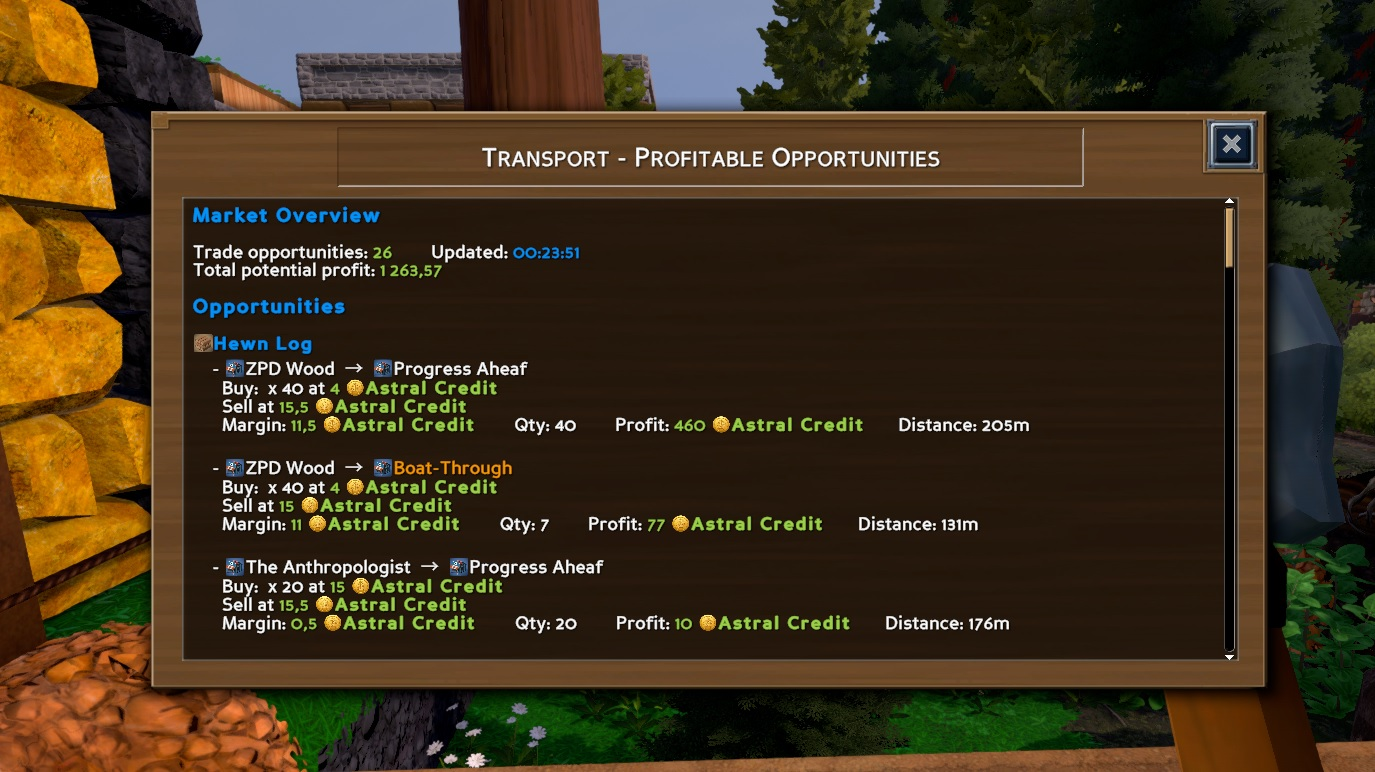
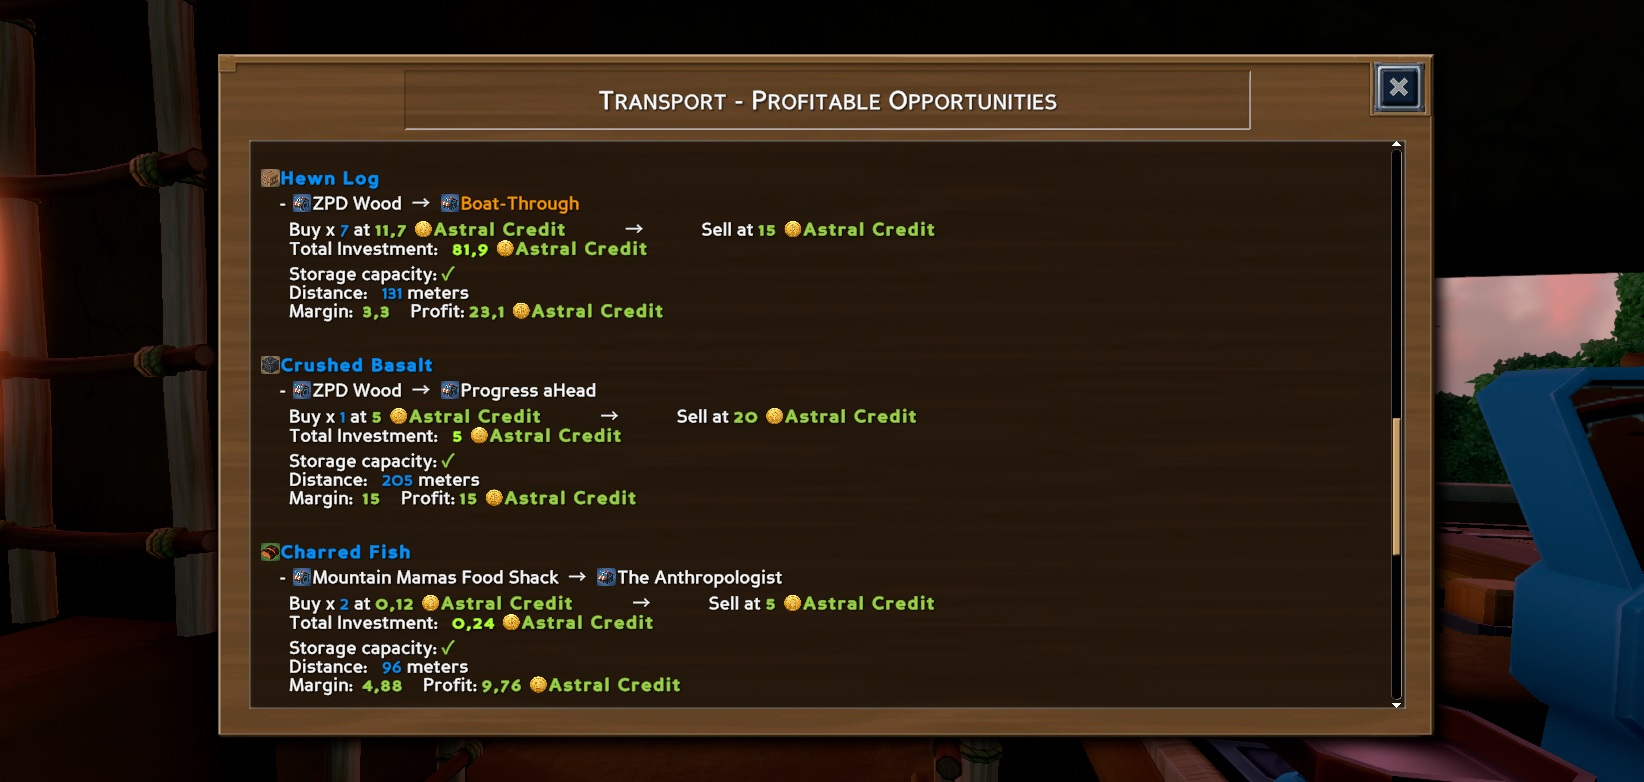
add buyers can pay and have storage capacity

diff --git a/EcoTransportMod/EcoTransportMod.cs b/EcoTransportMod/EcoTransportMod.cs
@@ -12,6 +12,7 @@ namespace Eco.Mods.EcoTransportMod
     using Eco.Core.Plugins.Interfaces;
     using Eco.Core.Utils;
     using Eco.Gameplay.Components;
+    using Eco.Gameplay.Components.Storage;
     using Eco.Gameplay.Components.Store;
     using Eco.Gameplay.Items;
     using Eco.Gameplay.Objects;
@@ -118,6 +119,7 @@ namespace Eco.Mods.EcoTransportMod
         /// - Available quantity at buy store
         /// - Wanted quantity at sell store
         /// - Sell store's available balance to pay for items
+        /// - Sell store's storage capacity
         /// </summary>
         public int MaxQuantity
         {
@@ -134,8 +136,79 @@ namespace Eco.Mods.EcoTransportMod
                     baseLimit = Math.Min(baseLimit, affordableByStore);
                 }
 
+                // Check sell store storage capacity
+                if (!CanSellToStoreAcceptItems())
+                {
+                    return 0; // Store storage is full, cannot accept any items
+                }
+
                 return Math.Max(0, baseLimit);
             }
+        }
+
+        /// <summary>
+        /// Checks if the sell-to store has storage capacity to accept items
+        /// </summary>
+        private bool CanSellToStoreAcceptItems()
+        {
+            var (isFull, _, _, _, hasStorageLimit) = GetSellToStorageInfo();
+
+            // If no storage limit detected, assume can accept
+            if (!hasStorageLimit) return true;
+
+            // Can accept if not full
+            return !isFull;
+        }
+
+        /// <summary>
+        /// Gets the storage status of the sell-to store
+        /// Returns: (isFull, availableCapacity, totalSlots, usedSlots, hasStorageLimit)
+        /// availableCapacity is the number of items that can be stored based on stack size
+        /// </summary>
+        public (bool isFull, int availableCapacity, int totalSlots, int usedSlots, bool hasStorageLimit) GetSellToStorageInfo()
+        {
+            if (SellTo?.Store == null || SellTo.ItemType == null)
+                return (false, int.MaxValue, 0, 0, false);
+
+            // Try to get LinkComponent to access linked storage
+            var linkComponent = SellTo.Store.GetComponent<LinkComponent>();
+            if (linkComponent == null)
+                return (false, int.MaxValue, 0, 0, false); // No link component
+
+            // Get linked inventories
+            var linkedInventories = linkComponent.GetSortedLinkedInventories(SellTo.Store.Owners);
+            if (linkedInventories == null)
+                return (false, int.MaxValue, 0, 0, false); // No linked inventories
+
+            // Get storage info from the linked inventories
+            int totalSlots = linkedInventories.Stacks.Count();
+            int usedSlots = linkedInventories.NonEmptyStacks.Count();
+            int availableSlots = totalSlots - usedSlots;
+            bool isFull = linkedInventories.IsFull;
+
+            // If no valid storage was found
+            if (totalSlots == 0)
+                return (false, int.MaxValue, 0, 0, false);
+
+            // Calculate available capacity based on item stack size
+            var item = Item.Get(SellTo.ItemType);
+            int maxStackSize = item?.MaxStackSize ?? 1;
+
+            // Calculate capacity considering:
+            // 1. Empty slots can hold maxStackSize items each
+            // 2. Partially filled stacks of the same item can hold more
+            int availableCapacity = availableSlots * maxStackSize;
+
+            // Check if there are existing stacks of this item that aren't full
+            foreach (var stack in linkedInventories.Stacks)
+            {
+                if (stack?.Item?.Type == SellTo.ItemType && stack.Quantity < maxStackSize)
+                {
+                    availableCapacity += (maxStackSize - stack.Quantity);
+                }
+            }
+
+            return (isFull, availableCapacity, totalSlots, usedSlots, true);
         }
 
         public float TotalCost => BuyFrom.Price * MaxQuantity;
@@ -405,20 +478,45 @@ namespace Eco.Mods.EcoTransportMod
             // Each opportunity on its own line
             foreach (var opp in opportunities.OrderByDescending(o => o.TotalProfit))
             {
-                var marginColor = opp.ProfitPercent >= 50 ? "#ADFF2F" : (opp.ProfitPercent >= 20 ? "#90EE90" : "#ADFF2F");
+                var marginColor = "#9CCD4F";
                 var currencyLink = opp.BuyFrom.GetCurrencyLink();
 
                 // Check if user can afford this opportunity
                 float userBalance = GetUserBalance(user, opp.BuyFrom.Currency);
                 bool canAfford = userBalance >= opp.TotalCost;
-                var totalCostColor = canAfford ? "#ADFF2F" : "#FF6B6B"; // Green if affordable, light red if not
+                var totalCostColor = canAfford ? "#9CCD4F" : "#FF6B6B"; // Green if affordable, light red if not
+
+                // Get storage info for sell-to store
+                var (isFull, availableCapacity, totalSlots, usedSlots, hasStorageLimit) = opp.GetSellToStorageInfo();
 
                 content.AppendLine(Localizer.Do($"    - {opp.BuyFrom.GetStoreLink()}  →  {opp.SellTo.GetStoreLink()}"));
+
+                // Build storage status message - always show if has storage limit
+                string storageStatus = "";
+                if (hasStorageLimit)
+                {
+                    if (isFull)
+                    {
+                        storageStatus = Text.Color("#FF6B6B", "FULL - Cannot accept items");
+                    }
+                    else if (availableCapacity < opp.MaxQuantity)
+                    {
+                        storageStatus = Text.Color("#FFA500", $"Limited ({availableCapacity} items can fit)");
+                    }
+                    else
+                    {
+                        storageStatus = Text.Positive($"✓");
+                    }
+                }
                 var affordMsg = canAfford ? "" : $"  {Text.Color(totalCostColor, "(you only have " + Text.StyledNum(userBalance) + ")")}";
-                content.AppendLine(Localizer.Do($"      Buy at {Text.Negative(Text.Bold(Text.StyledNum(opp.BuyFrom.Price)))}            →            Sell at {Text.Positive(Text.Bold(Text.StyledNum(opp.SellTo.Price)))}"));
-                content.AppendLine(Localizer.Do($"      Qty:  {Text.Bold(Text.Color(marginColor, Text.StyledNum(opp.MaxQuantity)))}          Margin:  {Text.Bold(Text.Color(marginColor, Text.StyledNum(opp.Margin)))}    Profit: {Text.Positive(Text.Bold(Text.StyledNum(opp.TotalProfit)))}"));                
+                content.AppendLine(Localizer.Do($"      Buy x {Text.Info($"{opp.MaxQuantity}")} at {Text.Positive(Text.Bold(Text.StyledNum(opp.BuyFrom.Price)))} {currencyLink}            →            Sell at {Text.Positive(Text.Bold(Text.StyledNum(opp.SellTo.Price)))} {currencyLink}"));
+                content.AppendLine(Localizer.Do($"      Total Investment:   {Text.Color(totalCostColor, Text.Bold(opp.TotalCost))} {currencyLink} {affordMsg} "));
+                if (hasStorageLimit)
+                {
+                    content.AppendLine(Localizer.Do($"      Storage capacity: {Text.Bold(storageStatus)}"));
+                }
                 content.AppendLine(Localizer.Do($"      Distance:   {Text.Info($"{opp.Distance:F0}")} meters"));
-                content.AppendLine(Localizer.Do($"      Total Cost:   {Text.Color(totalCostColor, Text.Bold(opp.TotalCost))} {currencyLink} {affordMsg} "));                
+                content.AppendLine(Localizer.Do($"      Margin:  {Text.Bold(Text.Color(marginColor, Text.StyledNum(opp.Margin)))}    Profit: {Text.Positive(Text.Bold(Text.StyledNum(opp.TotalProfit)))} {currencyLink}"));
                 content.AppendLine();
             }
         }
@@ -479,12 +577,12 @@ namespace Eco.Mods.EcoTransportMod
         public static void ShowOpportunityDetail(Player player, User user, TradeOpportunity opp)
         {
             var content = new LocStringBuilder();
-            var marginColor = opp.ProfitPercent >= 50 ? "#ADFF2F" : (opp.ProfitPercent >= 20 ? "#90EE90" : "#ADFF2F");
+            var marginColor = "#9CCD4F";
 
             // Check if user can afford this opportunity
             float userBalance = GetUserBalance(user, opp.BuyFrom.Currency);
             bool canAfford = userBalance >= opp.TotalCost;
-            var totalCostColor = canAfford ? "#ADFF2F" : "#FF6B6B"; // Green if affordable, light red if not
+            var totalCostColor = canAfford ? "#9CCD4F" : "#FF6B6B"; // Green if affordable, light red if not
 
             // Item header
             content.AppendLine(TextLoc.HeaderLocStr("Trade Opportunity"));
@@ -509,6 +607,28 @@ namespace Eco.Mods.EcoTransportMod
             content.AppendLine(Localizer.Do($"Owner: {opp.SellTo.GetOwnerLink()}"));
             content.AppendLine(Localizer.Do($"Price: {Text.Positive(Text.Bold(Text.StyledNum(opp.SellTo.Price)))} {currencyLink}"));
             content.AppendLine(Localizer.Do($"Wants: {Text.Info(opp.SellTo.Quantity.ToString())}"));
+
+            // Storage info
+            var (isFull, availableCapacity, totalSlots, usedSlots, hasStorageLimit) = opp.GetSellToStorageInfo();
+            if (hasStorageLimit)
+            {
+                if (isFull)
+                {
+                    content.AppendLine(Localizer.Do($"Storage: {Text.Color("#FF6B6B", "FULL - Cannot accept items")}"));
+                }
+                else if (availableCapacity < opp.MaxQuantity)
+                {
+                    content.AppendLine(Localizer.Do($"Storage: {Text.Color("#FFA500", $"Limited ({availableCapacity} items can fit)")}"));
+                }
+                else
+                {
+                    content.AppendLine(Localizer.Do($"Storage: {Text.Positive($"{availableCapacity} units can fit")}"));
+                }
+            }
+            else
+            {
+                content.AppendLine(Localizer.Do($"Storage: {Text.Info("Unlimited")}"));
+            }
             content.AppendLine();
 
             // Profit analysis
@@ -518,7 +638,7 @@ namespace Eco.Mods.EcoTransportMod
             content.AppendLine(Localizer.Do($"Profit percentage: {Text.Bold(Text.Color(marginColor, Text.StyledPercent(opp.ProfitPercent / 100f)))}"));
             content.AppendLine(Localizer.Do($"Max tradeable: {Text.Info(opp.MaxQuantity.ToString())} units"));
             content.AppendLine(Localizer.Do($"Distance: {Text.Info($"{opp.Distance:F0}")} meters"));
-            content.AppendLine(Localizer.Do($"{Text.Bold("Total cost")}: {Text.Color(totalCostColor, Text.Bold(opp.TotalCost))} {currencyLink}"));
+            content.AppendLine(Localizer.Do($"{Text.Bold("Total investment")}: {Text.Color(totalCostColor, Text.Bold(opp.TotalCost))} {currencyLink}"));
             content.AppendLine(Localizer.Do($"{Text.Bold("Total profit")}: {Text.Positive(Text.Bold(Text.StyledNum(opp.TotalProfit)))} {currencyLink}"));
 
             player.OpenInfoPanel(

diff --git a/README.md b/README.md
@@ -23,6 +23,8 @@ Reboot your server and it's done !
 - Filter by matching currency (buy and sell must use same currency)
 - Native Eco UI with clickable links for stores, items and currencies
 - Distance calculation between buy/sell locations
+- Check you can afford the investment
+- Check buyer's can afford the delivery, and have available storage.
 
 ## Usage
 
@@ -52,7 +54,6 @@ Contributions and bug reports are welcome !
 - Add filtering on player's skill production & player's own materials
 - Add config command : learned skill, transport method(cart, truck) 
 - Add transportation info (number of trips required)
-- Add
 - [New Skill] Add a configurable variable for admins to make it a skill, which locks all features except public ones behind it.
 - [Skill Feature] Add automatique itinerary suggestion.
-- [Public Feature] Add feature DeliveryOpportunity which allow any user to place an order with delivery, and transporter (only) to answer it.
+- [Public Feature] Add feature DeliveryOpportunity which allow any user to place an order with delivery, and transporter (only) to answer it. Would probably take benefit of contracts.

diff --git a/CHANGELOG.md b/CHANGELOG.md
@@ -7,6 +7,11 @@
 - Total cost display: shows the total purchase cost for each opportunity
 - Affordability indicator: total cost is displayed in green if the player can afford it, light red if not
 - Buyer balance check: MaxQuantity now accounts for the buyer store's available balance to pay for items
+- Storage capacity check: verifies if the sell-to store has sufficient storage space to accept items
+  - Displays storage status in all views (panel, find, detail)
+  - Calculates real capacity based on item stack size and available slots
+  - Shows warnings when storage is limited or full
+  - Color-coded indicators: red for full storage, orange for limited capacity, green for sufficient space
 
 
 ## v1.1.0
